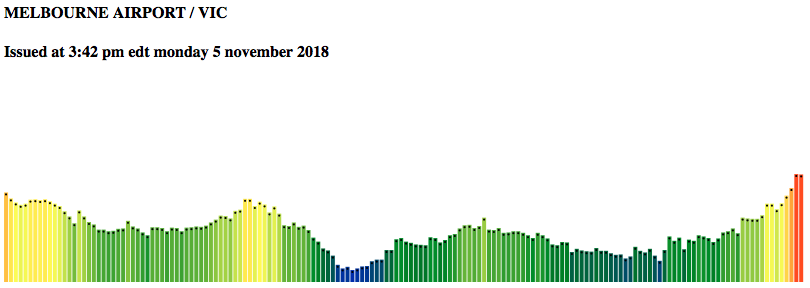
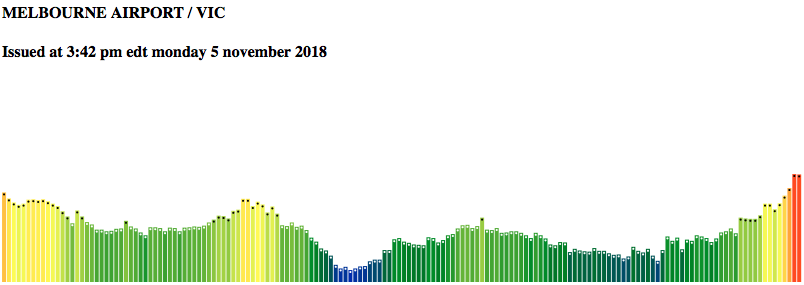
2018NOV05 quick hack to indicate data point on light colour and dark colour

Changed region(s): [[0.0, 0.5895, 1.0, 1.0], [0.0, 0.1404, 0.4042, 0.2246], [0.0, 0.0, 0.2799, 0.0842]]

diff --git a/www/weather.js b/www/weather.js
@@ -37,7 +37,6 @@ var parser = d3.timeParse("%m/%dT%H%M");
 var color = d3.scaleLinear()
               .domain([0, 10, 20, 30, 40, 50])
               .range(["blue", "green", "yellow", "red", "purple"]);
-
 d3.json("http://127.0.0.1:8000/data/latest-simple-weather.json").then( function(data) {
     return data;
 })
@@ -86,7 +85,7 @@ d3.json("http://127.0.0.1:8000/data/latest-simple-weather.json").then( function(
            return d * 40;
        })
        .attr("x", function(d, i) {
-           	return i * (w / data.length);
+           return i * (w / data.length);
        })
        .attr("width", w / data.length - barPadding)
        .attr("stroke", function(d) {
@@ -108,7 +107,14 @@ d3.json("http://127.0.0.1:8000/data/latest-simple-weather.json").then( function(
         .attr("cx", function(d, i) {
            return i * (w / data.length) + (w / data.length - barPadding) / 2
         })
-        .attr("r", 1);
+        .attr("r", 1)
+        .attr("fill", function(d) {
+            if ((d <= 15.0)) {
+                return "white";
+            } else {
+                return "black";
+            }
+        })
      
      // show temp value
      svg.selectAll("text")

diff --git a/README.md b/README.md
@@ -11,7 +11,8 @@ TODO
         how to show data values 
 
 2018NOV05
-* improve this by selecting different colours if needed.
+* quick hack to change data points to either black (light colour) or 
+  white (dark colour) so you can see the points across entire graph.
 
 * using d3.scaleLinear created a colour range for temp
   with the follow colour grading:
